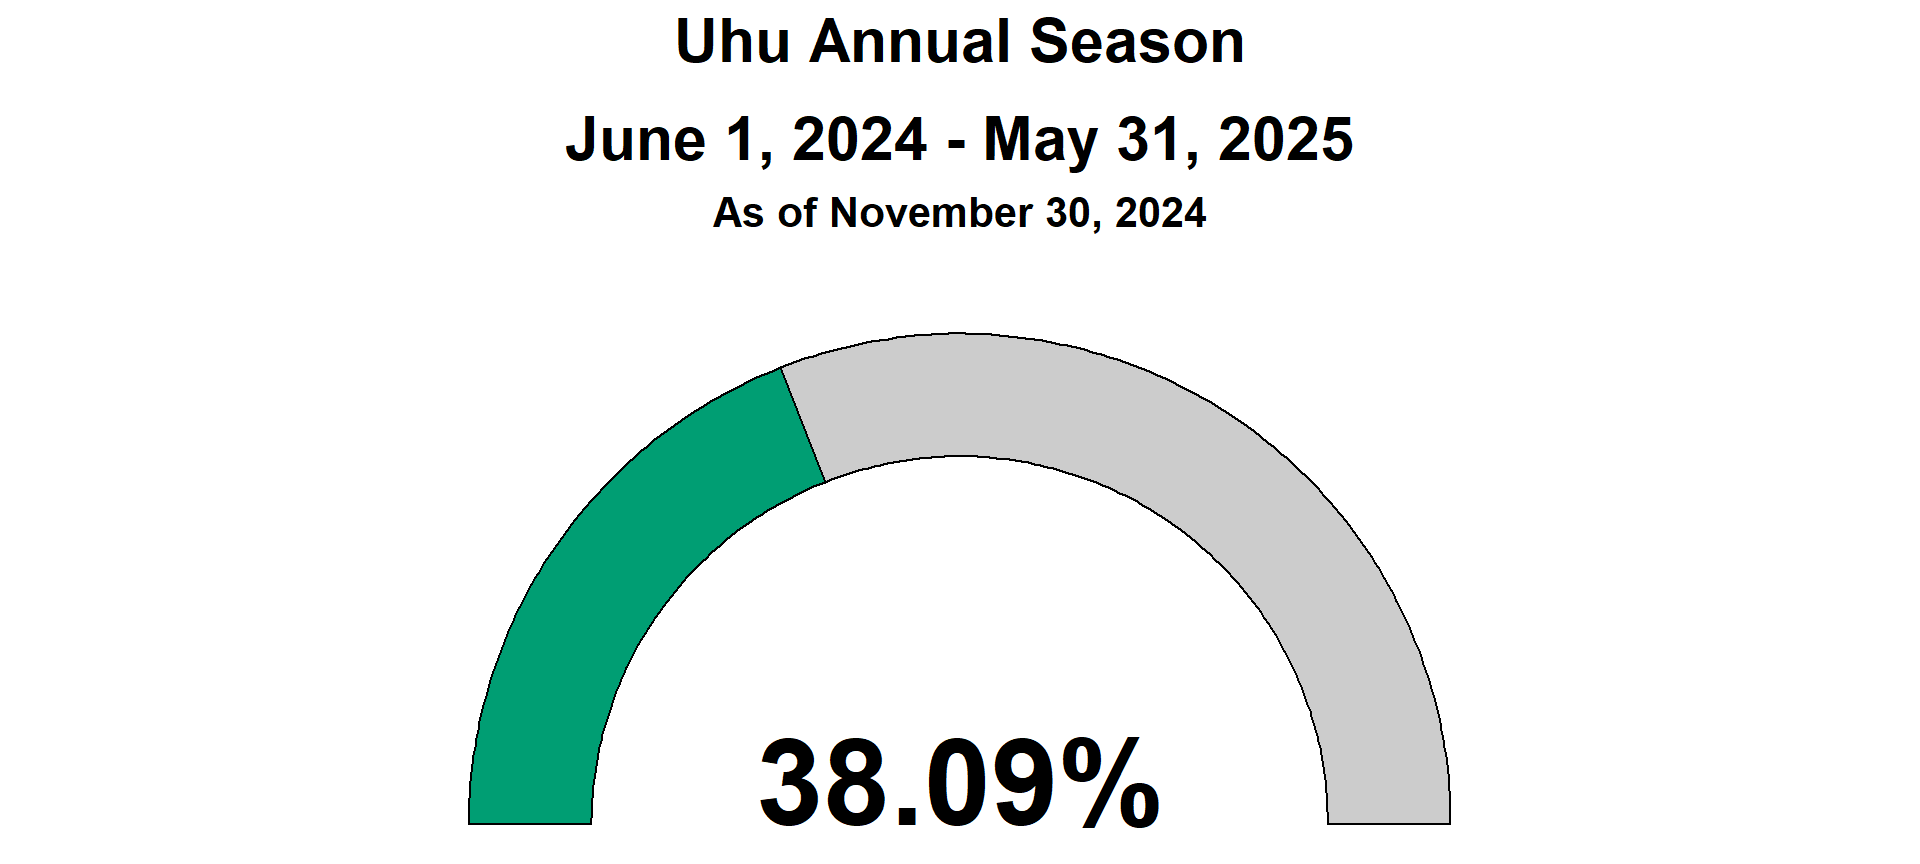
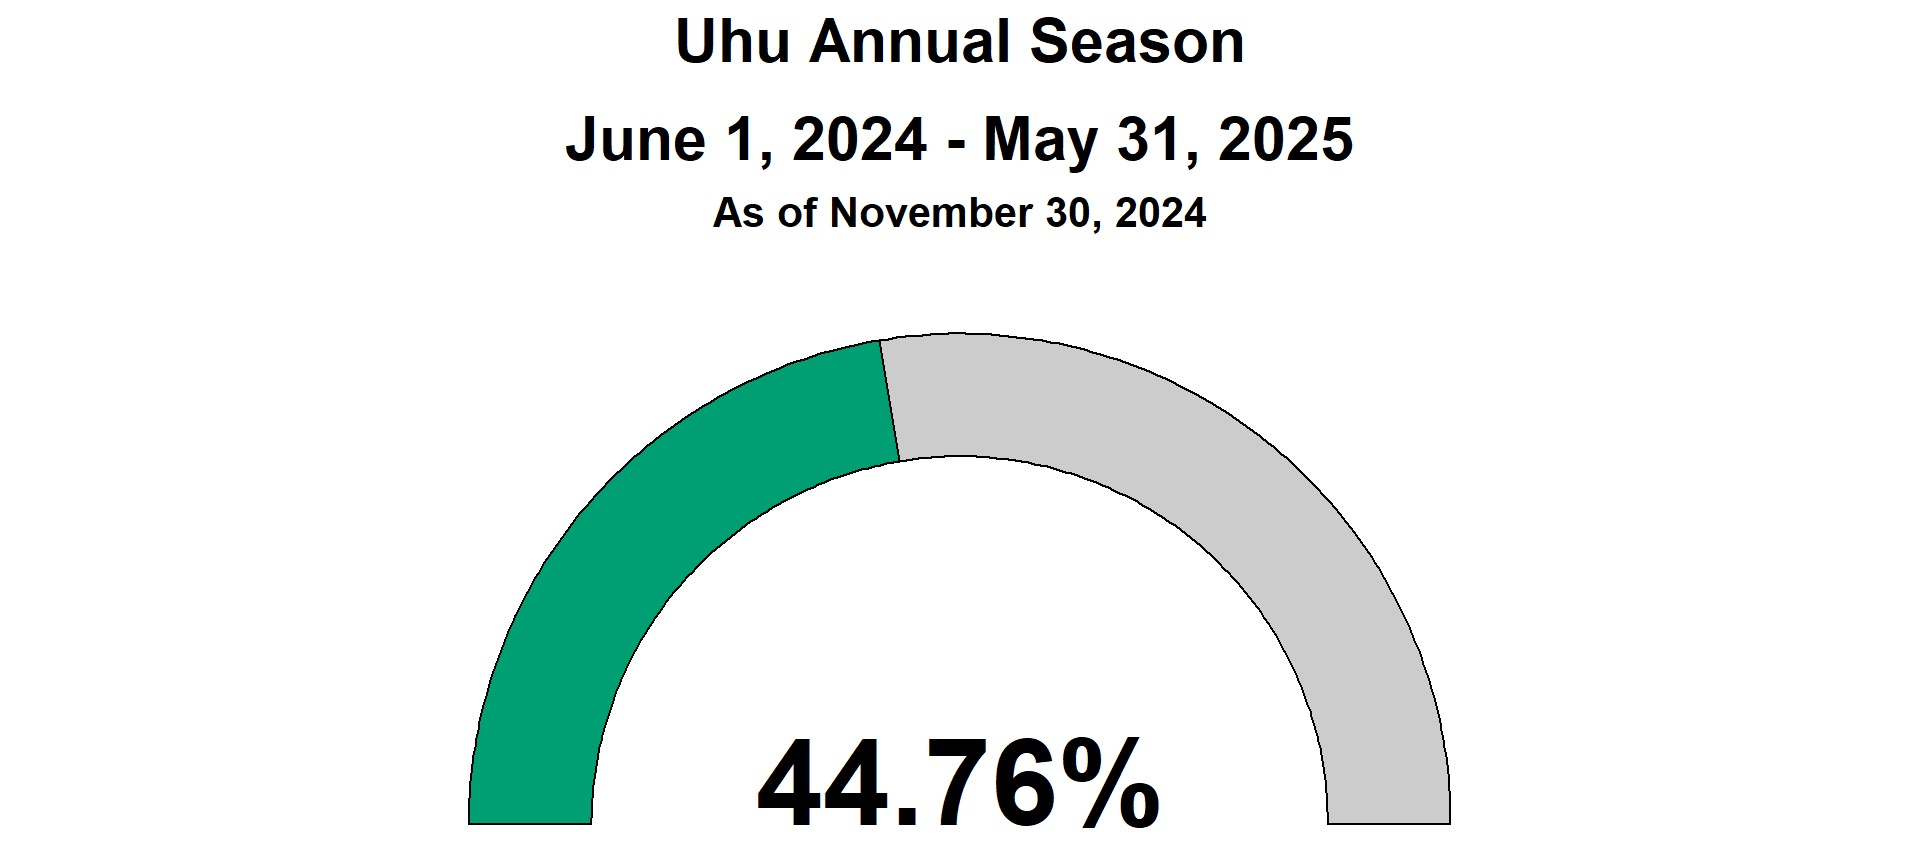
Another "Uhu" to "Uku

Changed region(s): [[0.375, 0.8438, 0.5625, 0.9688], [0.4062, 0.375, 0.4688, 0.5625]]

diff --git a/index.html b/index.html
@@ -202,9 +202,9 @@ grid-auto-rows: minmax(0, 1fr);">
     </span>
 </bslib-tooltip><script data-bslib-card-init="">bslib.Card.initializeAllCards();</script></div>
 </div><div class="bslib-grid" style="display: grid; grid-template-rows: minmax(3em, 1fr); grid-auto-columns: minmax(0, 1fr);">
-<div class="card cell bslib-card html-fill-container" data-title="<abbr title=&quot;Percentage of Uku pounds sold towards the ACL.&quot;>Uhu ACL Gauge</abbr>" data-bslib-card-init="" data-require-bs-caller="card()" data-full-screen="false">
+<div class="card cell bslib-card html-fill-container" data-title="<abbr title=&quot;Percentage of Uku pounds sold towards the ACL.&quot;>Uku ACL Gauge</abbr>" data-bslib-card-init="" data-require-bs-caller="card()" data-full-screen="false">
 <div class="card-header dashboard-card-no-title">
-<abbr title="Percentage of Uku pounds sold towards the ACL.">Uhu ACL Gauge</abbr>
+<abbr title="Percentage of Uku pounds sold towards the ACL.">Uku ACL Gauge</abbr>
 </div>
 <div class="card-body html-fill-item html-fill-container">
 <div class="cell-output-display html-fill-item html-fill-container">
@@ -654,7 +654,7 @@ window.document.addEventListener("DOMContentLoaded", function (event) {
     <div class="nav-footer-left">
       <ul class="footer-items list-unstyled">
     <li class="nav-item">
- Uploaded on December 10, 2024
+ Uploaded on December 11, 2024
   </li>  
 </ul>
     </div>   
@@ -664,7 +664,7 @@ window.document.addEventListener("DOMContentLoaded", function (event) {
     <div class="nav-footer-right">
       <ul class="footer-items list-unstyled">
     <li class="nav-item">
-    <a class="nav-link" href="https://dlnr.hawaii.gov/dar/">
+    <a class="nav-link" href="https://dlnr.hawaii.gov/dar/annual-catch-limit/">
 <p>Division of Aquatic Resources</p>
 </a>
   </li>  

diff --git a/Uku_KonaCrab_dashboard.html b/Uku_KonaCrab_dashboard.html
@@ -661,7 +661,7 @@ window.document.addEventListener("DOMContentLoaded", function (event) {
     <div class="nav-footer-right">
       <ul class="footer-items list-unstyled">
     <li class="nav-item">
-    <a class="nav-link" href="https://dlnr.hawaii.gov/dar/">
+    <a class="nav-link" href="https://dlnr.hawaii.gov/dar/annual-catch-limit/">
 <p>Division of Aquatic Resources</p>
 </a>
   </li>  

diff --git a/deep_seven_dashboard.html b/deep_seven_dashboard.html
@@ -677,7 +677,7 @@ window.document.addEventListener("DOMContentLoaded", function (event) {
     <div class="nav-footer-right">
       <ul class="footer-items list-unstyled">
     <li class="nav-item">
-    <a class="nav-link" href="https://dlnr.hawaii.gov/dar/">
+    <a class="nav-link" href="https://dlnr.hawaii.gov/dar/annual-catch-limit/">
 <p>Division of Aquatic Resources</p>
 </a>
   </li>  

diff --git a/kala_uhu_dashboard.html b/kala_uhu_dashboard.html
@@ -661,7 +661,7 @@ window.document.addEventListener("DOMContentLoaded", function (event) {
     <div class="nav-footer-right">
       <ul class="footer-items list-unstyled">
     <li class="nav-item">
-    <a class="nav-link" href="https://dlnr.hawaii.gov/dar/">
+    <a class="nav-link" href="https://dlnr.hawaii.gov/dar/annual-catch-limit/">
 <p>Division of Aquatic Resources</p>
 </a>
   </li>  
